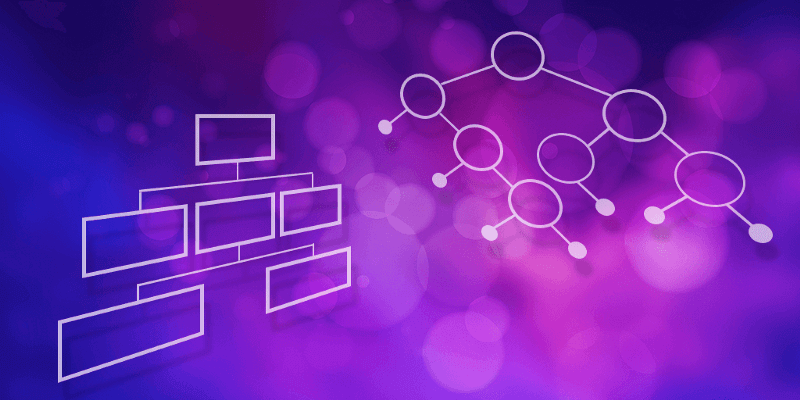
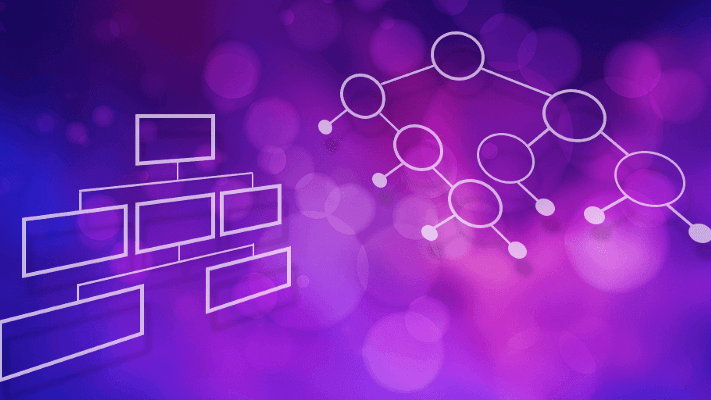
algorithms post divide complete

diff --git a/_posts/Data Structures and Algorithms/Algorithms/2022-02-01-greedy.md b/_posts/Data Structures and Algorithms/Algorithms/2022-02-01-greedy.md
@@ -5,7 +5,7 @@ subtitle: '1. Greedy'
 category: data-structures-and-algorithms
 tags:     algorithms
 image: 
-  path: /assets/img/data-structures-and-algorithms/greedy_main.jpg
+  path: /assets/img/data-structures-and-algorithms/greedy_main.png
 related_posts: 
   - _posts/Data Structures and Algorithms/Data Structures/2022-01-31-fundamentals-of-data-structures.md
   - _posts/Data Structures and Algorithms/Algorithms/2022-02-01-implementation.md

diff --git a/_featured_categories/data-structures-and-algorithms.md b/_featured_categories/data-structures-and-algorithms.md
@@ -1,7 +1,7 @@
 ---
 layout: grid
 type: category
-title: <span style="letter-spacing:2px">Data Structures & Algorithms</span>
+title: <span style="letter-spacing:0.5px">Data Structures & Algorithms</span>
 slug: data-structures-and-algorithms
 sidebar: true
 order: 2
